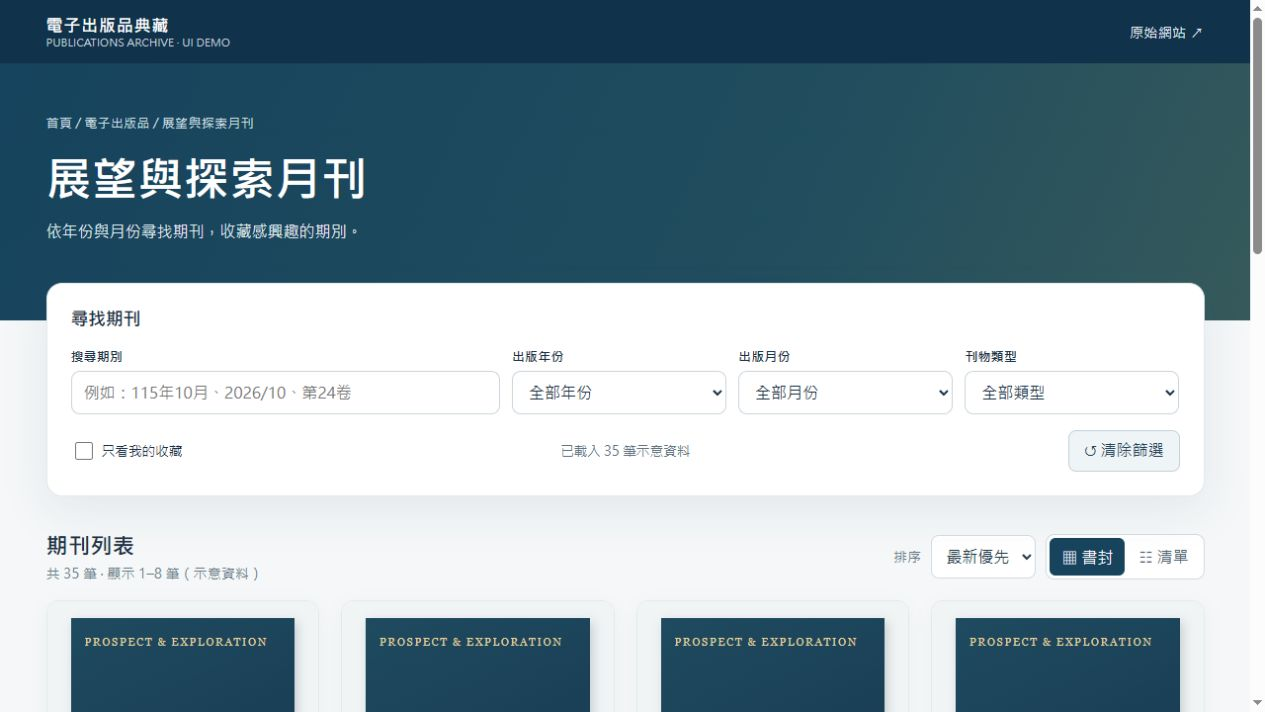
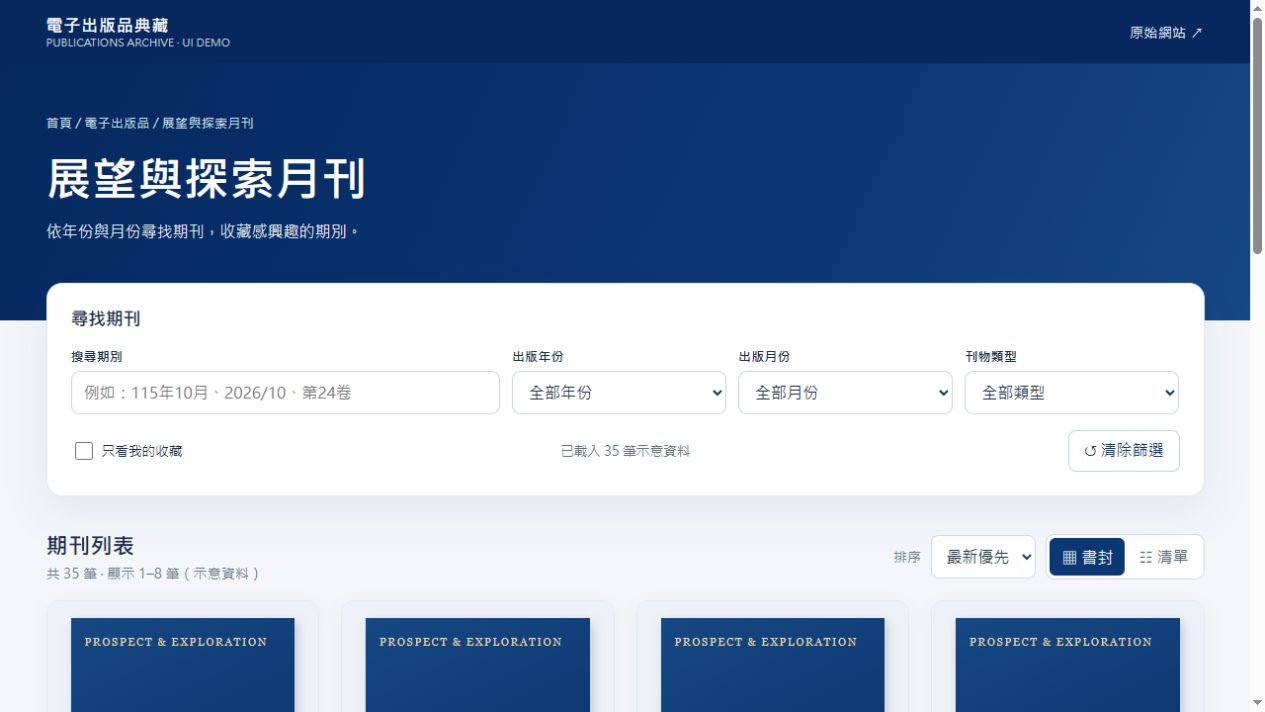
Update bookshelf to government navy blue palette

diff --git a/index.html b/index.html
@@ -5,9 +5,12 @@
 <meta name="viewport" content="width=device-width, initial-scale=1" />
 <title>展望與探索月刊｜電子書櫃前端改版示範</title>
 <style>
-:root{font-family:system-ui,-apple-system,"Noto Sans TC","Microsoft JhengHei",sans-serif;color:#173047;background:#f5f7f8}*{box-sizing:border-box}body{margin:0}button,input,select{font:inherit}button{cursor:pointer}button:focus-visible,input:focus-visible,select:focus-visible,a:focus-visible{outline:3px solid #e4aa46;outline-offset:3px}.container{max-width:1220px;padding:0 24px;margin:auto}.topbar{background:#10324a;color:#fff}.nav{display:flex;align-items:center;justify-content:space-between;min-height:64px}.brand{font-size:1.05rem;font-weight:750;letter-spacing:.06em}.brand small{font-size:.7rem;display:block;font-weight:400;color:#c5d4df;letter-spacing:0}.nav a{color:#e8f0f5;text-decoration:none;font-size:.9rem}.hero{background:linear-gradient(115deg,#16435d,#214d5e 63%,#365a5b);color:white;padding:52px 0 75px}.breadcrumb{font-size:.83rem;color:#d2e0e8;margin-bottom:19px}.hero h1{font-size:clamp(1.9rem,4vw,2.9rem);margin:0 0 10px}.hero p{margin:0;line-height:1.8;color:#e4edf1}.main{margin-top:-38px;padding-bottom:75px}.controls{background:white;border-radius:16px;box-shadow:0 14px 45px #163d5515;border:1px solid #e4e9ec;padding:24px;position:relative}.controls h2{margin:0 0 19px;font-size:1.1rem}.filters{display:grid;grid-template-columns:2fr repeat(3,minmax(120px,1fr));gap:12px}.field label{display:block;font-size:.82rem;font-weight:650;margin-bottom:7px}.field input,.field select{width:100%;border:1px solid #cbd5dc;border-radius:9px;background:#fff;color:#173047;min-height:44px;padding:10px 12px}.filter-actions{margin-top:16px;display:flex;flex-wrap:wrap;justify-content:space-between;align-items:center;gap:10px}.filter-note{color:#60727e;font-size:.85rem}.outline{border:1px solid #c3d1d9;background:white;color:#24445a;padding:9px 15px;border-radius:8px}.outline:hover{background:#eff4f6}.section-header{margin:35px 0 18px;display:flex;justify-content:space-between;align-items:center;gap:16px;flex-wrap:wrap}.section-header h2{font-size:1.4rem;margin:0 0 5px}.muted{color:#667986;font-size:.88rem}.toolbar{display:flex;align-items:center;gap:10px;flex-wrap:wrap}.toolbar select{border:1px solid #d2dce2;background:#fff;border-radius:8px;padding:10px;color:#203849}.view-switch{display:flex;background:white;border:1px solid #d2dce2;border-radius:9px;padding:3px;gap:2px}.view-switch button{border:0;border-radius:6px;background:transparent;padding:7px 12px;color:#4e6270}.view-switch button[aria-pressed="true"]{background:#17445c;color:white}.books{display:grid;grid-template-columns:repeat(4,minmax(0,1fr));gap:22px}.book{min-width:0;background:white;border:1px solid #e2e9ec;border-radius:13px;overflow:hidden;box-shadow:0 5px 20px #183b5009;transition:transform .2s,box-shadow .2s}.book:hover{transform:translateY(-3px);box-shadow:0 12px 28px #183b5020}.cover-wrap{padding:17px 24px 0;background:#f1f4f5}.cover{aspect-ratio:.72;background:linear-gradient(155deg,#1f4a60,#14334b);color:white;box-shadow:3px 4px 11px #17344735;display:flex;flex-direction:column;justify-content:space-between;padding:18px 14px;position:relative;overflow:hidden}.cover:after{content:"";position:absolute;width:150px;height:150px;border:1px solid #ffffff30;border-radius:50%;right:-85px;top:35%}.cover .en{font:11px Georgia,serif;letter-spacing:.15em;color:#e8d49d}.cover .ct{font:700 clamp(17px,2vw,24px) Georgia,serif;letter-spacing:.1em;line-height:1.4}.cover .cover-foot{font-size:11px;color:#d6e5ea}.cover.index{background:linear-gradient(145deg,#476765,#233d45)}.cover.index .en{color:#f0e5b8}.book-info{padding:15px 16px 18px}.book-type{color:#527589;font-size:.75rem;letter-spacing:.06em}.book h3{font-size:1rem;margin:6px 0 6px;line-height:1.5}.book-meta{font-size:.84rem;color:#71818c;margin-bottom:14px}.book-action{width:100%;border:1px solid #b5c9d3;border-radius:8px;background:#eef4f6;color:#1d4d65;font-weight:650;padding:10px}.book-action:hover{background:#dfeef3}.books.list{display:flex;flex-direction:column;gap:10px}.books.list .book{display:flex;align-items:center;min-height:155px}.books.list .cover-wrap{padding:12px;background:#f1f4f5;width:115px;flex-shrink:0}.books.list .cover{padding:9px;min-height:120px}.books.list .cover .ct{font-size:13px}.books.list .cover .en,.books.list .cover .cover-foot{font-size:7px}.books.list .book-info{display:grid;grid-template-columns:1fr auto;align-items:center;gap:2px 20px;flex:1;padding:14px 20px}.books.list .book-type,.books.list h3,.books.list .book-meta{grid-column:1}.books.list .book-action{grid-column:2;grid-row:1/4;width:auto;padding:12px 24px}.empty{background:#fff;padding:65px 25px;border-radius:12px;text-align:center;border:1px solid #e2e9ec}.empty h3{margin-bottom:8px}.empty p{color:#647885}.load-row{text-align:center;margin-top:28px}.more{border:1px solid #a8bfc9;background:white;color:#17455b;font-weight:650;border-radius:9px;padding:12px 33px}.hint{font-size:.81rem;color:#607786;margin-top:20px;padding:12px 16px;background:#e8f0f3;border-radius:9px}footer{border-top:1px solid #dae3e8;padding:24px 0 32px;color:#6b7f89;font-size:.8rem;text-align:center}@media(max-width:900px){.filters{grid-template-columns:repeat(3,1fr)}.field.search{grid-column:1/-1}.books{grid-template-columns:repeat(3,minmax(0,1fr))}}@media(max-width:650px){.container{padding:0 14px}.nav{min-height:58px}.hero{padding:34px 0 66px}.controls{padding:16px;border-radius:13px}.filters{grid-template-columns:repeat(2,minmax(0,1fr))}.field.type{grid-column:1/-1}.section-header{margin-top:26px}.books{grid-template-columns:repeat(2,minmax(0,1fr));gap:12px}.cover-wrap{padding:10px 12px 0}.cover{padding:12px 9px}.cover .ct{font-size:16px}.cover .en,.cover .cover-foot{font-size:9px}.book-info{padding:12px}.book h3{font-size:.9rem}.book-meta{font-size:.77rem}.books.list .cover-wrap{width:88px}.books.list .cover{min-height:95px}.books.list .book-info{padding:12px;gap:2px 9px}.books.list .book-action{grid-column:1;grid-row:auto;width:max-content;padding:8px 13px}.toolbar{width:100%;justify-content:space-between}}
+:root{font-family:system-ui,-apple-system,"Noto Sans TC","Microsoft JhengHei",sans-serif;color:#172d4d;background:#f4f6fa}*{box-sizing:border-box}body{margin:0}button,input,select{font:inherit}button{cursor:pointer}button:focus-visible,input:focus-visible,select:focus-visible,a:focus-visible{outline:3px solid #cfa449;outline-offset:3px}.container{max-width:1220px;padding:0 24px;margin:auto}.topbar{background:#06285f;color:#fff}.nav{display:flex;align-items:center;justify-content:space-between;min-height:64px}.brand{font-size:1.05rem;font-weight:750;letter-spacing:.06em}.brand small{font-size:.7rem;display:block;font-weight:400;color:#c5d4df;letter-spacing:0}.nav a{color:#e8f0f5;text-decoration:none;font-size:.9rem}.hero{background:linear-gradient(115deg,#06285f,#0b3774 63%,#164883);color:white;padding:52px 0 75px}.breadcrumb{font-size:.83rem;color:#d2e0e8;margin-bottom:19px}.hero h1{font-size:clamp(1.9rem,4vw,2.9rem);margin:0 0 10px}.hero p{margin:0;line-height:1.8;color:#e4edf1}.main{margin-top:-38px;padding-bottom:75px}.controls{background:white;border-radius:16px;box-shadow:0 14px 45px #06285f15;border:1px solid #e4e9ec;padding:24px;position:relative}.controls h2{margin:0 0 19px;font-size:1.1rem}.filters{display:grid;grid-template-columns:2fr repeat(3,minmax(120px,1fr));gap:12px}.field label{display:block;font-size:.82rem;font-weight:650;margin-bottom:7px}.field input,.field select{width:100%;border:1px solid #cbd5dc;border-radius:9px;background:#fff;color:#172d4d;min-height:44px;padding:10px 12px}.filter-actions{margin-top:16px;display:flex;flex-wrap:wrap;justify-content:space-between;align-items:center;gap:10px}.filter-note{color:#60727e;font-size:.85rem}.outline{border:1px solid #c3d1d9;background:white;color:#0b3774;padding:9px 15px;border-radius:8px}.outline:hover{background:#edf3fc}.section-header{margin:35px 0 18px;display:flex;justify-content:space-between;align-items:center;gap:16px;flex-wrap:wrap}.section-header h2{font-size:1.4rem;margin:0 0 5px}.muted{color:#667986;font-size:.88rem}.toolbar{display:flex;align-items:center;gap:10px;flex-wrap:wrap}.toolbar select{border:1px solid #d2dce2;background:#fff;border-radius:8px;padding:10px;color:#203849}.view-switch{display:flex;background:white;border:1px solid #d2dce2;border-radius:9px;padding:3px;gap:2px}.view-switch button{border:0;border-radius:6px;background:transparent;padding:7px 12px;color:#4e6270}.view-switch button[aria-pressed="true"]{background:#0b3774;color:white}.books{display:grid;grid-template-columns:repeat(4,minmax(0,1fr));gap:22px}.book{min-width:0;background:white;border:1px solid #e2e9ec;border-radius:13px;overflow:hidden;box-shadow:0 5px 20px #06285f09;transition:transform .2s,box-shadow .2s}.book:hover{transform:translateY(-3px);box-shadow:0 12px 28px #06285f20}.cover-wrap{padding:17px 24px 0;background:#eef2f8}.cover{aspect-ratio:.72;background:linear-gradient(155deg,#164883,#06285f);color:white;box-shadow:3px 4px 11px #06285f35;display:flex;flex-direction:column;justify-content:space-between;padding:18px 14px;position:relative;overflow:hidden}.cover:after{content:"";position:absolute;width:150px;height:150px;border:1px solid #ffffff30;border-radius:50%;right:-85px;top:35%}.cover .en{font:11px Georgia,serif;letter-spacing:.15em;color:#ecd9a9}.cover .ct{font:700 clamp(17px,2vw,24px) Georgia,serif;letter-spacing:.1em;line-height:1.4}.cover .cover-foot{font-size:11px;color:#d6e5ea}.cover.index{background:linear-gradient(145deg,#315d93,#0b3774)}.cover.index .en{color:#f0e5b8}.book-info{padding:15px 16px 18px}.book-type{color:#42648c;font-size:.75rem;letter-spacing:.06em}.book h3{font-size:1rem;margin:6px 0 6px;line-height:1.5}.book-meta{font-size:.84rem;color:#71818c;margin-bottom:14px}.book-action{width:100%;border:1px solid #b5c9d3;border-radius:8px;background:#edf3fc;color:#0b3774;font-weight:650;padding:10px}.book-action:hover{background:#dce8f9}.books.list{display:flex;flex-direction:column;gap:10px}.books.list .book{display:flex;align-items:center;min-height:155px}.books.list .cover-wrap{padding:12px;background:#eef2f8;width:115px;flex-shrink:0}.books.list .cover{padding:9px;min-height:120px}.books.list .cover .ct{font-size:13px}.books.list .cover .en,.books.list .cover .cover-foot{font-size:7px}.books.list .book-info{display:grid;grid-template-columns:1fr auto;align-items:center;gap:2px 20px;flex:1;padding:14px 20px}.books.list .book-type,.books.list h3,.books.list .book-meta{grid-column:1}.books.list .book-action{grid-column:2;grid-row:1/4;width:auto;padding:12px 24px}.empty{background:#fff;padding:65px 25px;border-radius:12px;text-align:center;border:1px solid #e2e9ec}.empty h3{margin-bottom:8px}.empty p{color:#647885}.load-row{text-align:center;margin-top:28px}.more{border:1px solid #a8bfc9;background:white;color:#0b3774;font-weight:650;border-radius:9px;padding:12px 33px}.hint{font-size:.81rem;color:#607786;margin-top:20px;padding:12px 16px;background:#eaf0f9;border-radius:9px}footer{border-top:1px solid #dae3e8;padding:24px 0 32px;color:#6b7f89;font-size:.8rem;text-align:center}@media(max-width:900px){.filters{grid-template-columns:repeat(3,1fr)}.field.search{grid-column:1/-1}.books{grid-template-columns:repeat(3,minmax(0,1fr))}}@media(max-width:650px){.container{padding:0 14px}.nav{min-height:58px}.hero{padding:34px 0 66px}.controls{padding:16px;border-radius:13px}.filters{grid-template-columns:repeat(2,minmax(0,1fr))}.field.type{grid-column:1/-1}.section-header{margin-top:26px}.books{grid-template-columns:repeat(2,minmax(0,1fr));gap:12px}.cover-wrap{padding:10px 12px 0}.cover{padding:12px 9px}.cover .ct{font-size:16px}.cover .en,.cover .cover-foot{font-size:9px}.book-info{padding:12px}.book h3{font-size:.9rem}.book-meta{font-size:.77rem}.books.list .cover-wrap{width:88px}.books.list .cover{min-height:95px}.books.list .book-info{padding:12px;gap:2px 9px}.books.list .book-action{grid-column:1;grid-row:auto;width:max-content;padding:8px 13px}.toolbar{width:100%;justify-content:space-between}}
 
-.chips{display:flex;flex-wrap:wrap;gap:8px;margin-top:15px}.chips:empty{display:none}.chips button{background:#edf3f5;border:1px solid #c5d4dd;color:#24445a;border-radius:20px;padding:7px 12px}.load-row{display:flex;justify-content:center;gap:8px;flex-wrap:wrap}.load-row button{min-width:44px;min-height:44px;background:#fff;border:1px solid #c4d3dc;border-radius:8px;color:#173e55}.load-row button[aria-current=page]{background:#17445c;color:white}.load-row button:disabled{opacity:.4;cursor:default}.about{margin-top:28px;border-top:1px solid #d3dfe4;padding-top:22px;color:#4d6473}.about summary{cursor:pointer;font-weight:650}.about a{color:#17445c}.empty{grid-column:1/-1}.book h3{font-size:1.15rem}.book-type{display:flex;justify-content:space-between}.save{border:0;background:transparent;color:#395f72;padding:0 4px;font-size:18px;min-width:36px;min-height:32px}.saved-filter{display:flex;align-items:center;gap:6px;font-size:.85rem}.saved-filter input{width:18px;height:18px}dialog{border:1px solid #d5e0e5;border-radius:16px;padding:28px;max-width:550px;width:calc(100% - 32px);color:#173047;box-shadow:0 25px 90px #08233a40}dialog::backdrop{background:#08233a88}.dialog-head,.dialog-actions{display:flex;align-items:center;justify-content:space-between;gap:12px;flex-wrap:wrap}dialog p{line-height:1.8}.dialog-actions a{text-decoration:none}.book-meta{line-height:1.7}.main{scroll-margin-top:20px}@media(prefers-reduced-motion:reduce){.book{transition:none}.book:hover{transform:none}}@media(max-width:380px){.toolbar{gap:7px}.toolbar select{max-width:140px}.view-switch button{padding:7px}.books.list .book-info{min-width:0}.book-action{font-size:.85rem}.cover .ct{font-size:15px}}
+.chips{display:flex;flex-wrap:wrap;gap:8px;margin-top:15px}.chips:empty{display:none}.chips button{background:#edf3fc;border:1px solid #c5d4dd;color:#0b3774;border-radius:20px;padding:7px 12px}.load-row{display:flex;justify-content:center;gap:8px;flex-wrap:wrap}.load-row button{min-width:44px;min-height:44px;background:#fff;border:1px solid #c4d3dc;border-radius:8px;color:#0b3774}.load-row button[aria-current=page]{background:#0b3774;color:white}.load-row button:disabled{opacity:.4;cursor:default}.about{margin-top:28px;border-top:1px solid #d3dfe4;padding-top:22px;color:#4c6080}.about summary{cursor:pointer;font-weight:650}.about a{color:#0b3774}.empty{grid-column:1/-1}.book h3{font-size:1.15rem}.book-type{display:flex;justify-content:space-between}.save{border:0;background:transparent;color:#0b3774;padding:0 4px;font-size:18px;min-width:36px;min-height:32px}.saved-filter{display:flex;align-items:center;gap:6px;font-size:.85rem}.saved-filter input{width:18px;height:18px}dialog{border:1px solid #d5e0e5;border-radius:16px;padding:28px;max-width:550px;width:calc(100% - 32px);color:#172d4d;box-shadow:0 25px 90px #06285f40}dialog::backdrop{background:#06285f88}.dialog-head,.dialog-actions{display:flex;align-items:center;justify-content:space-between;gap:12px;flex-wrap:wrap}dialog p{line-height:1.8}.dialog-actions a{text-decoration:none}.book-meta{line-height:1.7}.main{scroll-margin-top:20px}@media(prefers-reduced-motion:reduce){.book{transition:none}.book:hover{transform:none}}@media(max-width:380px){.toolbar{gap:7px}.toolbar select{max-width:140px}.view-switch button{padding:7px}.books.list .book-info{min-width:0}.book-action{font-size:.85rem}.cover .ct{font-size:15px}}
+
+/* Blue palette based on the referenced MJIB website; gold for keyboard focus. */
+:root{--brand-blue:#06285f;--brand-blue-active:#0b3774;--brand-gold:#cfa449}input[type="checkbox"]{accent-color:var(--brand-blue-active)}.save[aria-pressed="true"]{color:var(--brand-blue-active)}
 </style>
 </head>
 <body>
